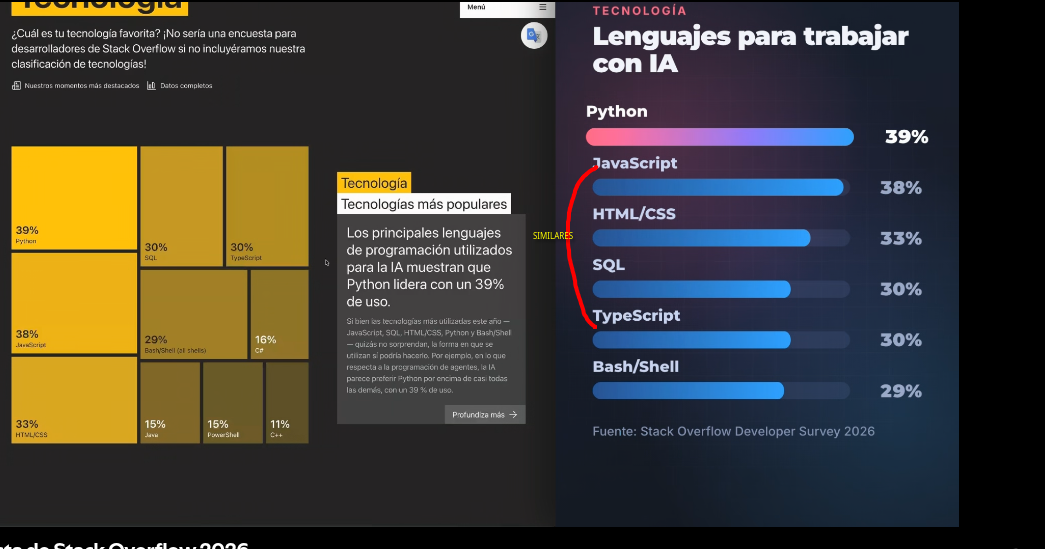
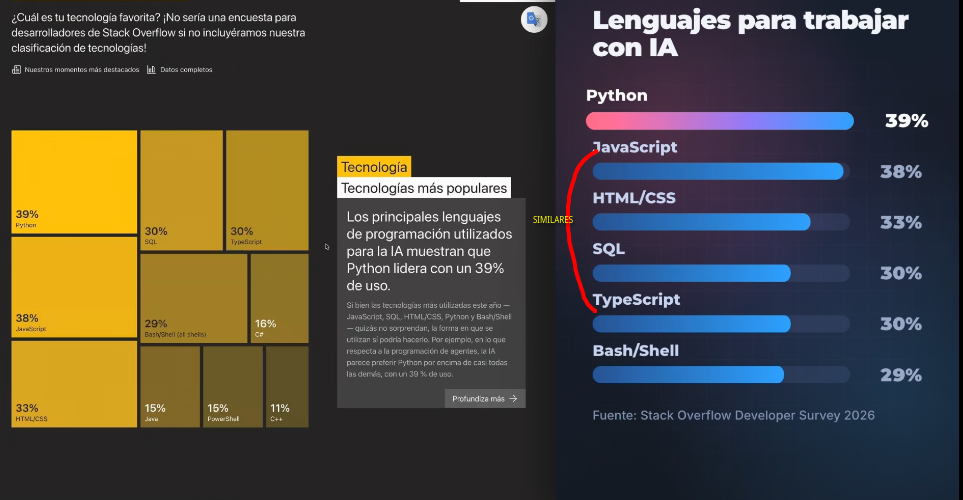
identacion_entrega_final

diff --git a/README.md b/README.md
@@ -6,10 +6,14 @@ Integrantes: Fredes Rafael, Pezzati Tomas y Garrido Mateo.
 
 ## Entregables
 
-| Archivo | Rol |
-|---|---|
-| [`Grupo23-Fund_C_Datos-StackOverflow.ipynb`](Grupo23-Fund_C_Datos-StackOverflow.ipynb) | Código: descarga, exploración, reducción de variables y contraste de las seis hipótesis. |
-| [`TPE - GRUPO_23-Fundamentos de Ciencias de Datos.pdf`](<TPE - GRUPO_23-Fundamentos de Ciencias de Datos.pdf>) | Informe: contexto, preparación de los datos, hipótesis y conclusiones. |
+
+| Archivo                                                                                                        | Rol                                                                                      |
+| -------------------------------------------------------------------------------------------------------------- | ---------------------------------------------------------------------------------------- |
+| `[Grupo23-Fund_C_Datos-StackOverflow.ipynb](Grupo23-Fund_C_Datos-StackOverflow.ipynb)`                         | Código: descarga, exploración, reducción de variables y contraste de las seis hipótesis. |
+| `[TPE - GRUPO_23-Fundamentos de Ciencias de Datos.pdf](<TPE - GRUPO_23-Fundamentos de Ciencias de Datos.pdf>)` | Informe: contexto, preparación de los datos, hipótesis y conclusiones.                   |
+
+
+
 
 ## Cómo ejecutarlo
 
@@ -37,17 +41,26 @@ En Windows, la activación es `.venv\Scripts\activate`.
 1. Abrir la notebook y elegir el kernel `TPE_ESPECIAL`.
 2. Ejecutar desde la primera celda. Si faltan los CSV en `data/`, esa celda los descarga del archivo 2025 de Stack Overflow.
 
+
+
 ## Recorrido del código
 
-| Sección | Qué resuelve |
-|---|---|
-| 1. Preparación | Deja en `data/` los resultados y el esquema de la encuesta 2025. |
-| 2. Exploración | Reduce columnas y arma el subconjunto de variables del análisis. |
+
+| Sección                    | Qué resuelve                                                                                                             |
+| -------------------------- | ------------------------------------------------------------------------------------------------------------------------ |
+| 1. Preparación             | Deja en `data/` los resultados y el esquema de la encuesta 2025.                                                         |
+| 2. Exploración             | Reduce columnas y arma el subconjunto de variables del análisis.                                                         |
 | 3. Hipótesis de la cátedra | Salario en Argentina frente al SMVM; experiencia profesional y confianza en la IA; satisfacción laboral y cambio de rol. |
-| 4. Hipótesis del grupo | Modalidad de trabajo; tamaño de la organización y uso de agentes de IA; perfiles de trayectoria y satisfacción laboral. |
+| 4. Hipótesis del grupo     | Modalidad de trabajo; tamaño de la organización y uso de agentes de IA; perfiles de trayectoria y satisfacción laboral.  |
+
+
+
 
 ## Fuentes
 
 - Cátedra de Fundamentos de la Ciencia de Datos, cursada 2026. Ayudante asignada: Daniela Godoy.
 - Informe oficial de la encuesta: [survey.stackoverflow.co/2025](https://survey.stackoverflow.co/2025/).
-- Resultados y esquema: [github.com/StackExchange/Survey](https://github.com/StackExchange/Survey), archivos `packages/archive/2025/results.csv` y `packages/archive/2025/schema.csv`.
+- Resultados y esquema: [github.com/StackExchange/Survey](https://github.com/StackExchange/Survey), archivos `packages/archive/2025/results.csv` y `packages/archive/2025/schema.csv`.  
+
+- Episodio en Spotify de DevTalles:[https://open.spotify.com/episode/70vVmQW19rg2hlMNcjDsIw?si=1611beb00e0249bc](https://open.spotify.com/episode/70vVmQW19rg2hlMNcjDsIw?si=1611beb00e0249bc)
+
